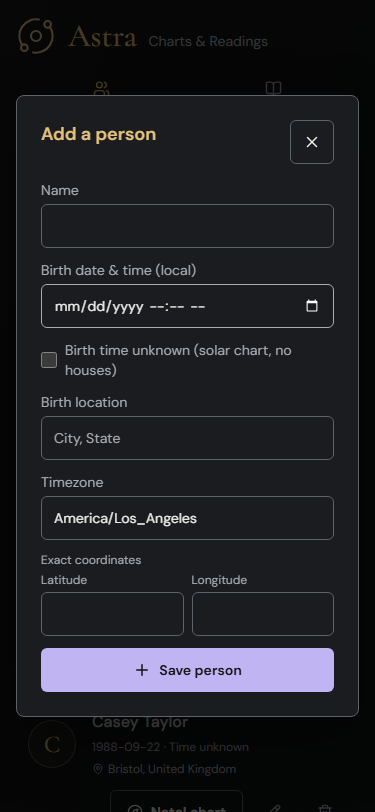
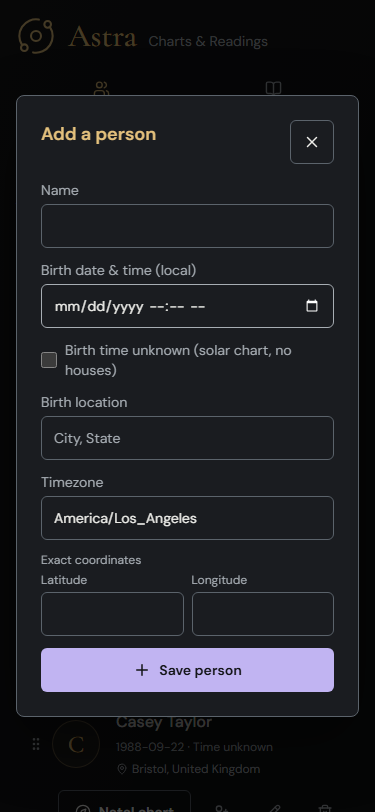
feat(web): drag-and-drop reading slots
- Replace Person A/B dropdowns with two labelled drop slots (First person, optional Second person); reading mode follows how many are filled, so no separate synastry toggle
- Person rows are draggable (grip on fine pointers) and gain an Include toggle as the keyboard/touch alternative
- Re-dropping a placed person swaps slots; a lone person always sits first; removing a person clears their slot
- Tests cover include toggle, drops, swaps and mode switch; UI script performs a real drag

diff --git a/apps/web/src/pages/DashboardPage.tsx b/apps/web/src/pages/DashboardPage.tsx
@@ -1,6 +1,6 @@
 import { useEffect, useState } from "react";
 import { Link, useNavigate } from "react-router-dom";
-import { Compass, Pencil, Plus, Save, Trash2, Users, Orbit, MapPin } from "lucide-react";
+import { Compass, GripVertical, Pencil, Plus, Save, Trash2, UserCheck, UserPlus, Users, Orbit, MapPin } from "lucide-react";
 import type { Ayanamsa, ReadingStyle, RelationshipType, ZodiacMode } from "@astro/shared";
 import { peopleApi, type PersonRecord } from "../api/peopleApi.js";
 import { synastryApi } from "../api/synastryApi.js";
@@ -8,6 +8,7 @@ import { chartsApi } from "../api/chartsApi.js";
 import { addSessionReading, removeSessionReadingsFor } from "../lib/sessionReadings.js";
 import { draftFromPerson, draftToPayload, emptyPersonDraft, PersonForm, type PersonDraft } from "../components/forms/PersonForm.js";
 import { Modal } from "../components/ui/Modal.js";
+import { PERSON_DRAG_TYPE, ReadingSlot } from "../components/dashboard/ReadingSlot.js";
 
 const READING_STYLES: { value: ReadingStyle; label: string }[] = [
   { value: "clever", label: "Clever" },
@@ -48,6 +49,44 @@ export default function DashboardPage() {
   const [readingStyle, setReadingStyle] = useState<ReadingStyle>("clever");
   const [customStyleText, setCustomStyleText] = useState("");
   const [generating, setGenerating] = useState(false);
+  const [draggingId, setDraggingId] = useState<string | null>(null);
+  const [readingNotice, setReadingNotice] = useState("");
+
+  const personA = people.find((p) => p.id === personAId);
+  const personB = people.find((p) => p.id === personBId);
+
+  /** Places a person in a slot; dropping someone already in the other slot swaps them, and a lone person always sits first. */
+  function assignSlot(slot: "a" | "b", id: string): void {
+    let a = personAId;
+    let b = personBId;
+    if (slot === "a") {
+      if (b === id) b = a;
+      a = id;
+    } else {
+      if (a === id) a = b;
+      b = id;
+    }
+    if (!a && b) [a, b] = [b, ""];
+    setPersonAId(a);
+    setPersonBId(b);
+  }
+
+  function clearSlot(slot: "a" | "b"): void {
+    if (slot === "a") setPersonAId(personBId);
+    setPersonBId("");
+  }
+
+  function toggleInReading(person: PersonRecord): void {
+    if (person.id === personAId || person.id === personBId) {
+      clearSlot(person.id === personAId ? "a" : "b");
+      setReadingNotice(`${person.name} removed from the reading.`);
+    } else if (!personAId || !personBId) {
+      assignSlot(personAId ? "b" : "a", person.id);
+      setReadingNotice(`${person.name} added to the reading.`);
+    } else {
+      setReadingNotice("Both places are taken. Remove someone from the reading first.");
+    }
+  }
 
   async function loadPeople(): Promise<void> {
     setLoading(true);
@@ -106,8 +145,7 @@ export default function DashboardPage() {
   }
 
   async function onGenerateReading(): Promise<void> {
-    const personA = people.find((p) => p.id === personAId);
-    if (!personA || personAId === personBId) return;
+    if (!personA) return;
     const ayanamsaLabel = AYANAMSA_OPTIONS.find((opt) => opt.value === ayanamsa)?.label ?? ayanamsa;
     const zodiacDetail = zodiacMode === "sidereal" ? `sidereal (${ayanamsaLabel})` : "tropical";
 
@@ -158,8 +196,7 @@ export default function DashboardPage() {
       await peopleApi.remove(id);
       removeSessionReadingsFor(id);
       await loadPeople();
-      if (personAId === id) setPersonAId("");
-      if (personBId === id) setPersonBId("");
+      if (personAId === id || personBId === id) clearSlot(personAId === id ? "a" : "b");
       setPersonToRemove(null);
       setStatus("Person removed.");
     } catch (err) {
@@ -236,8 +273,23 @@ export default function DashboardPage() {
             </div>
           ) : (
             <ul className="people-list">
-              {people.map((p) => (
-                <li key={p.id} className="person-row">
+              {people.map((p) => {
+                const inReading = p.id === personAId || p.id === personBId;
+                return (
+                <li
+                  key={p.id}
+                  className="person-row"
+                  draggable
+                  data-dragging={draggingId === p.id ? "true" : undefined}
+                  onDragStart={(event) => {
+                    event.dataTransfer.setData(PERSON_DRAG_TYPE, p.id);
+                    event.dataTransfer.setData("text/plain", p.name);
+                    event.dataTransfer.effectAllowed = "copy";
+                    setDraggingId(p.id);
+                  }}
+                  onDragEnd={() => setDraggingId(null)}
+                >
+                  <GripVertical size={16} className="person-grip" aria-hidden="true" />
                   <span className="person-monogram" aria-hidden="true">{p.name.trim().slice(0, 1).toUpperCase()}</span>
                   <div className="person-identity">
                     <h3 className="person-name">{p.name}</h3>
@@ -245,9 +297,18 @@ export default function DashboardPage() {
                     {p.locationName && <span className="person-meta"><MapPin size={12} aria-hidden="true" />{p.locationName}</span>}
                   </div>
                   <div className="person-actions">
-                    <Link className="btn-secondary" to={`/chart/${p.id}`} aria-label={`Open ${p.name}'s natal chart`}>
+                    <Link className="btn-secondary" to={`/chart/${p.id}`} draggable={false} aria-label={`Open ${p.name}'s natal chart`}>
                       <Compass size={16} aria-hidden="true" /> Natal chart
                     </Link>
+                    <button
+                      className="icon-button"
+                      aria-pressed={inReading}
+                      aria-label={`Include ${p.name} in the reading`}
+                      title={inReading ? `Remove ${p.name} from the reading` : `Add ${p.name} to the reading`}
+                      onClick={() => toggleInReading(p)}
+                    >
+                      {inReading ? <UserCheck size={16} aria-hidden="true" /> : <UserPlus size={16} aria-hidden="true" />}
+                    </button>
                     <button className="icon-button" title={`Edit ${p.name}`} aria-label={`Edit ${p.name}`} disabled={saving} onClick={() => openEditor(p)}>
                       <Pencil size={16} aria-hidden="true" />
                     </button>
@@ -256,38 +317,42 @@ export default function DashboardPage() {
                     </button>
                   </div>
                 </li>
-              ))}
+                );
+              })}
             </ul>
           )}
         </section>
 
         <section className="workspace-comparison" aria-labelledby="comparison-title">
-          <div className="section-heading"><h2 id="comparison-title"><Orbit size={18} aria-hidden="true" /> Run a reading</h2><span className="eyebrow">Natal or synastry</span></div>
+          <div className="section-heading"><h2 id="comparison-title"><Orbit size={18} aria-hidden="true" /> Run a reading</h2><span className="eyebrow">{personB ? "Synastry" : personA ? "Natal" : "Natal or synastry"}</span></div>
           {people.length === 0 ? (
             <p className="empty-state text-sm text-muted">Add a person to run a reading.</p>
           ) : (
             <div className="comparison-form">
-              <div className="report-pair comparison-pair">
-              <label className="field-label" htmlFor="person-a">Person A
-              <select id="person-a" className="input" value={personAId} onChange={(e) => setPersonAId(e.target.value)}>
-                <option value="">Select person</option>
-                {people.map((p) => (
-                  <option key={p.id} value={p.id}>
-                    {p.name}
-                  </option>
-                ))}
-              </select>
-              </label>
-              <label className="field-label" htmlFor="person-b">Person B (optional)
-              <select id="person-b" className="input" value={personBId} onChange={(e) => setPersonBId(e.target.value)}>
-                <option value="">None (natal reading)</option>
-                {people.map((p) => (
-                  <option key={p.id} value={p.id}>
-                    {p.name}
-                  </option>
-                ))}
-              </select>
-              </label>
+              <div className="flex flex-col gap-3">
+                <p className="text-sm text-muted">
+                  Drag people from Your people into the places below, or press the include button{" "}
+                  <span className="whitespace-nowrap">(<UserPlus size={14} className="inline align-[-2px]" aria-hidden="true" />)</span> on someone&apos;s card. One person gives a natal reading; add a second for synastry.
+                </p>
+                <div className="reading-slots">
+                  <ReadingSlot
+                    label="First person"
+                    emptyText="Drop someone from Your people here"
+                    person={personA}
+                    dragActive={draggingId !== null}
+                    onDropPerson={(id) => assignSlot("a", id)}
+                    onClear={() => clearSlot("a")}
+                  />
+                  <ReadingSlot
+                    label="Second person (optional)"
+                    emptyText="Add a second person for a synastry reading"
+                    person={personB}
+                    dragActive={draggingId !== null}
+                    onDropPerson={(id) => assignSlot("b", id)}
+                    onClear={() => clearSlot("b")}
+                  />
+                </div>
+                <p role="status" className="text-xs text-muted">{readingNotice}</p>
               </div>
 
               <fieldset className="flex flex-col gap-1">
@@ -326,7 +391,7 @@ export default function DashboardPage() {
                 )}
               </fieldset>
 
-              {personBId && (
+              {personB && (
               <>
               <fieldset className="flex flex-col gap-1">
                 <legend className="text-xs text-slate-400">Reading type</legend>
@@ -378,10 +443,9 @@ export default function DashboardPage() {
               </>
               )}
 
-              {personAId && personAId === personBId && <p className="text-sm text-danger">Choose two different people, or set Person B to None.</p>}
-              <button className="btn-primary" disabled={generating || !personAId || personAId === personBId} onClick={() => void onGenerateReading()}>
+              <button className="btn-primary" disabled={generating || !personA} onClick={() => void onGenerateReading()}>
                 <Orbit size={18} aria-hidden="true" />
-                {generating ? "Generating…" : personBId ? "Generate synastry report" : "Generate natal reading"}
+                {generating ? "Generating…" : personB ? "Generate synastry report" : "Generate natal reading"}
               </button>
             </div>
           )}

diff --git a/apps/web/src/pages/DashboardPage.test.tsx b/apps/web/src/pages/DashboardPage.test.tsx
@@ -56,7 +56,7 @@ describe("Workspace person dialogs", () => {
     vi.mocked(peopleApi.list).mockResolvedValue([]);
     fireEvent.click(screen.getByRole("button", { name: "Remove person" }));
     await waitFor(() => expect(screen.queryByRole("dialog")).toBeNull());
-    expect(screen.getByRole("status").textContent).toBe("Person removed.");
+    expect(screen.getByText("Person removed.").getAttribute("role")).toBe("status");
   });
 
   it("exposes an empty-state add action and keeps the unknown-time date input", async () => {
@@ -93,15 +93,14 @@ describe("Workspace person dialogs", () => {
       longitude: -0.12,
       timeUnknown: false,
     });
-    expect(screen.getByRole("status").textContent).toBe("Person updated.");
+    expect(screen.getByText("Person updated.").getAttribute("role")).toBe("status");
   });
 });
 
 describe("Reading form", () => {
   afterEach(() => removeSessionReadingsFor("example"));
 
-  it("runs a single-person natal reading when Person B is left empty", async () => {
-    vi.mocked(chartsApi.pregenerateReading).mockResolvedValue(undefined);
+  function renderWithChartRoute() {
     render(
       <MemoryRouter>
         <Routes>
@@ -110,11 +109,44 @@ describe("Reading form", () => {
         </Routes>
       </MemoryRouter>,
     );
-    fireEvent.change(await screen.findByRole("combobox", { name: "Person A" }), { target: { value: "example" } });
+  }
+
+  it("runs a single-person natal reading from the include button", async () => {
+    vi.mocked(chartsApi.pregenerateReading).mockResolvedValue(undefined);
+    renderWithChartRoute();
+    const include = await screen.findByRole("button", { name: "Include Alex Morgan in the reading" });
+    expect(include.getAttribute("aria-pressed")).toBe("false");
+    fireEvent.click(include);
+    expect(include.getAttribute("aria-pressed")).toBe("true");
+    expect(within(screen.getByRole("group", { name: "First person" })).getByText("Alex Morgan")).toBeTruthy();
     expect(screen.queryByRole("radio", { name: "Romantic" })).toBeNull();
     fireEvent.click(screen.getByRole("button", { name: "Generate natal reading" }));
     expect(await screen.findByText("Natal chart page")).toBeTruthy();
     expect(chartsApi.pregenerateReading).toHaveBeenCalledWith("example", { zodiacMode: "tropical", ayanamsa: "lahiri" });
     expect(getSessionReadings()[0]).toMatchObject({ path: "/chart/example", label: "Alex Morgan", personIds: ["example"] });
+  });
+
+  it("fills places by drag and drop, swaps on re-drop, and switches to synastry with two people", async () => {
+    const jordan = { ...person, id: "jordan", name: "Jordan Lee" };
+    vi.mocked(peopleApi.list).mockResolvedValue([person, jordan]);
+    renderWithChartRoute();
+    const dragged = (id: string) => ({ dataTransfer: { types: ["application/x-astra-person"], getData: () => id, dropEffect: "" } });
+    const first = await screen.findByRole("group", { name: "First person" });
+    const second = screen.getByRole("group", { name: "Second person (optional)" });
+
+    fireEvent.drop(second, dragged("jordan"));
+    expect(within(first).getByText("Jordan Lee")).toBeTruthy();
+    fireEvent.drop(second, dragged("example"));
+    expect(within(second).getByText("Alex Morgan")).toBeTruthy();
+    expect(screen.getByRole("button", { name: "Generate synastry report" })).toBeTruthy();
+    expect(screen.getByRole("radio", { name: "Romantic" })).toBeTruthy();
+
+    fireEvent.drop(first, dragged("example"));
+    expect(within(first).getByText("Alex Morgan")).toBeTruthy();
+    expect(within(second).getByText("Jordan Lee")).toBeTruthy();
+
+    fireEvent.click(screen.getByRole("button", { name: "Include Jordan Lee in the reading" }));
+    expect(within(second).queryByText("Jordan Lee")).toBeNull();
+    expect(screen.getByRole("button", { name: "Generate natal reading" })).toBeTruthy();
   });
 });

diff --git a/apps/web/src/index.css b/apps/web/src/index.css
@@ -111,8 +111,23 @@
   .person-actions .icon-button { border-color: transparent; color: rgb(var(--color-muted)); }
   .person-actions .icon-button:hover { color: rgb(var(--color-text)); }
   .person-actions .remove-person:hover { color: rgb(var(--color-danger)); }
+  .person-actions .icon-button[aria-pressed="true"] { border-color: rgb(var(--color-accent) / 0.5); color: rgb(var(--color-accent)); background: rgb(var(--color-accent) / 0.08); }
+  .person-row[draggable="true"] { cursor: grab; }
+  .person-row[data-dragging="true"] { opacity: 0.5; }
+  .person-grip { flex: none; margin-inline-end: calc(var(--space-2) * -1); color: rgb(var(--color-muted)); }
+  /* Touch screens can't drag rows reliably, so they rely on the include button instead of a grip affordance. */
+  @media (pointer: coarse) { .person-grip { display: none; } }
   .comparison-form { display: flex; flex-direction: column; gap: var(--space-6); padding: var(--space-6) var(--inset-row); }
-  .comparison-form .comparison-pair { gap: var(--space-3); grid-template-columns: repeat(auto-fit, minmax(min(100%, 10rem), 1fr)); }
+  .reading-slots { display: grid; grid-template-columns: repeat(auto-fit, minmax(min(100%, 11rem), 1fr)); gap: var(--space-3); }
+  .reading-slot { display: flex; flex-direction: column; gap: var(--space-2); min-block-size: 7.5rem; min-inline-size: 0; padding: var(--space-3); border: 2px dashed rgb(var(--color-border)); border-radius: var(--radius-panel); background: rgb(var(--color-surface) / 0.4); transition: border-color var(--duration-fast) var(--ease-standard), background-color var(--duration-fast) var(--ease-standard); }
+  .reading-slot[data-filled="true"] { border-style: solid; border-color: rgb(var(--color-accent) / 0.45); background: rgb(var(--color-surface)); }
+  .reading-slot[data-target="true"] { border-color: rgb(var(--color-action) / 0.7); }
+  .reading-slot[data-over="true"] { border-style: solid; border-color: rgb(var(--color-action)); background: rgb(var(--color-action) / 0.16); box-shadow: 0 0 0 3px rgb(var(--color-action) / 0.25); }
+  .reading-slot-label { font-size: 0.75rem; font-weight: 500; color: rgb(var(--color-muted)); }
+  .reading-slot-empty { display: flex; flex: 1; flex-direction: column; align-items: center; justify-content: center; gap: var(--space-2); text-align: center; font-size: var(--text-small); color: rgb(var(--color-muted)); }
+  .reading-slot-person { display: flex; flex: 1; align-items: center; gap: var(--space-3); min-inline-size: 0; }
+  .reading-slot-person .person-monogram { inline-size: 2.5rem; block-size: 2.5rem; font-size: 1.25rem; }
+  .reading-slot-person .icon-button { border-color: transparent; color: rgb(var(--color-muted)); }
   .field-label { display: flex; flex-direction: column; gap: var(--space-2); min-inline-size: 0; font-size: 0.875rem; color: rgb(var(--color-muted)); }
   .empty-state { display: flex; flex-direction: column; align-items: center; gap: var(--space-4); padding: 3rem var(--space-4); color: rgb(var(--color-muted)); text-align: center; }
   @media (min-width: 60rem) { .workspace-layout { grid-template-columns: minmax(0, 1.2fr) minmax(0, 1fr); gap: 4rem; } .workspace-comparison { border-inline-start: 1px solid rgb(var(--color-border) / 0.3); padding-inline-start: var(--space-8); } }

diff --git a/apps/web/src/components/dashboard/ReadingSlot.tsx b/apps/web/src/components/dashboard/ReadingSlot.tsx
@@ -1,0 +1,71 @@
+import { useId, useState, type DragEvent } from "react";
+import { UserPlus, X } from "lucide-react";
+import type { PersonRecord } from "../../api/peopleApi.js";
+
+/** Custom drag type so only people from the dashboard list (not text or links) can be dropped. */
+export const PERSON_DRAG_TYPE = "application/x-astra-person";
+
+interface ReadingSlotProps {
+  label: string;
+  emptyText: string;
+  person: PersonRecord | undefined;
+  /** True while any person is being dragged, so every slot advertises itself as a target. */
+  dragActive: boolean;
+  onDropPerson: (personId: string) => void;
+  onClear: () => void;
+}
+
+function carriesPerson(event: DragEvent): boolean {
+  return Array.from(event.dataTransfer.types).includes(PERSON_DRAG_TYPE);
+}
+
+export function ReadingSlot({ label, emptyText, person, dragActive, onDropPerson, onClear }: ReadingSlotProps) {
+  const labelId = useId();
+  const [over, setOver] = useState(false);
+
+  return (
+    <div
+      role="group"
+      aria-labelledby={labelId}
+      className="reading-slot"
+      data-filled={person ? "true" : undefined}
+      data-target={dragActive ? "true" : undefined}
+      data-over={over ? "true" : undefined}
+      onDragOver={(event) => {
+        if (!carriesPerson(event)) return;
+        event.preventDefault();
+        event.dataTransfer.dropEffect = "copy";
+        setOver(true);
+      }}
+      onDragLeave={(event) => {
+        if (!event.currentTarget.contains(event.relatedTarget as Node | null)) setOver(false);
+      }}
+      onDrop={(event) => {
+        setOver(false);
+        const personId = event.dataTransfer.getData(PERSON_DRAG_TYPE);
+        if (!personId) return;
+        event.preventDefault();
+        onDropPerson(personId);
+      }}
+    >
+      <span id={labelId} className="reading-slot-label">{label}</span>
+      {person ? (
+        <div className="reading-slot-person">
+          <span className="person-monogram" aria-hidden="true">{person.name.trim().slice(0, 1).toUpperCase()}</span>
+          <span className="person-identity">
+            <span className="person-name">{person.name}</span>
+            <span className="person-meta">{person.localDateTime.split("T")[0]}</span>
+          </span>
+          <button type="button" className="icon-button" aria-label={`Remove ${person.name} from the reading`} title="Remove from the reading" onClick={onClear}>
+            <X size={16} aria-hidden="true" />
+          </button>
+        </div>
+      ) : (
+        <p className="reading-slot-empty">
+          <UserPlus size={20} aria-hidden="true" />
+          {emptyText}
+        </p>
+      )}
+    </div>
+  );
+}

diff --git a/docs/design-system.md b/docs/design-system.md
@@ -108,7 +108,8 @@ interaction checks exist; it does not mean independent accessibility certificati
 | `.segmented-control` | Group/fieldset of buttons with `aria-pressed` | Wraps; selected state is a filled action background about 9:1 against the unselected surface (a lightness change, not hue alone), plus an outline in forced colors; no tab semantics unless true tab panels exist | Adopted |
 | `PlaceSearchInput` | `value`, `onChange(string)`, `onSelect(PlaceSuggestion)` unchanged | Editable manual-selection combobox; Up/Down, Enter, Escape, Tab; pointer selection retains input focus; in-flight stale results ignored | Adopted |
 | `PersonForm` | Controlled `draft`/`onChange` (parent keeps drafts across dialog close), `onSubmit`, `saving`, submit label/icon; `draftFromPerson`/`draftToPayload` helpers | Shared by Add and Edit dialogs; native labelled inputs; unknown-time toggle carries the date between inputs | Adopted |
-| Person rows | Non-interactive card; explicit "Natal chart" link, Edit and Remove icon buttons | No card-level click target; actions wrap below identity on narrow rows; quiet icon buttons with named actions | Adopted |
+| Person rows | Non-interactive card; explicit "Natal chart" link, Include (toggle), Edit and Remove icon buttons; row is draggable | No card-level click target; actions wrap below identity on narrow rows; quiet icon buttons with named actions; grip shown only for fine pointers | Adopted |
+| `ReadingSlot` | `label`, `emptyText`, `person`, `dragActive`, `onDropPerson(id)`, `onClear` | Labelled group accepting only the custom person drag type; dashed when empty, solid when filled, highlighted while dragging/over. Reading mode follows the filled slots (one = natal, two = synastry), so there is no separate mode control. The Include toggle (`aria-pressed`) on each person is the required non-drag alternative (WCAG 2.5.7) and the main path on touch | Adopted |
 | `Modal` | `open`, `onClose`, `title`, `children` unchanged | Native `showModal`, inert background, named dialog, Escape/close/outside click; bounded viewport scroll; trigger restoration | Adopted |
 | `useModalDialog` | `open` -> dialog ref | Shared lifecycle for scroll locking and restoration; does not own application state | Internal |
 | `AiChatDrawer` | Existing endpoints/title/archetype callback; always uses the Anthropic provider | Native modal, close button pinned top-right; keyboard separator and range resize alternative; named scroll region, labelled composer; IME/Shift+Enter retained; shows formatted snapshots while the reading streams | Adopted |
